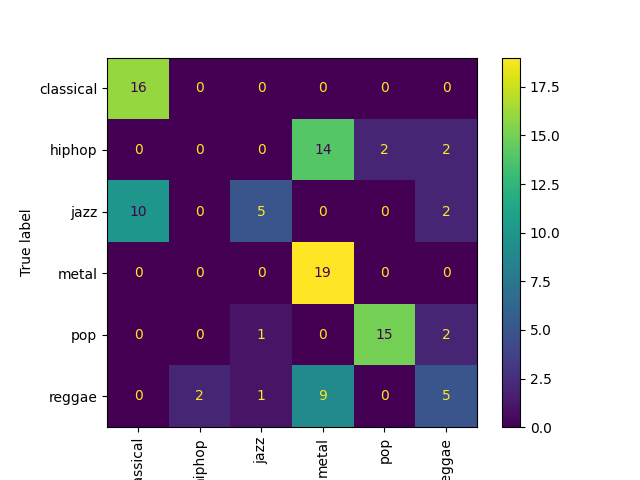
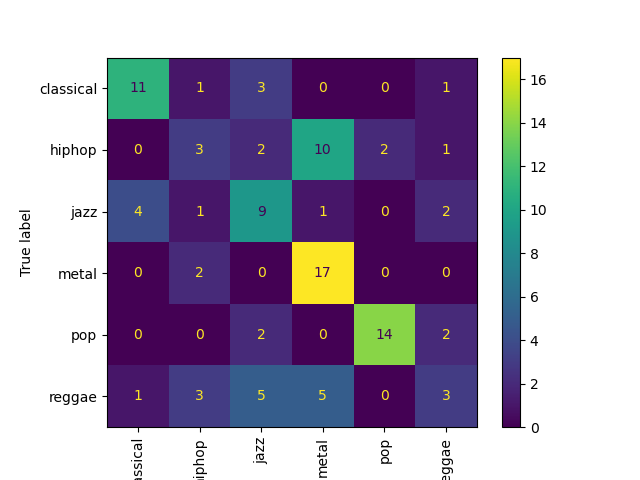
plots rnn confusion matrix

diff --git a/LSTM-Music-Genre-Classification-master/LSTM-Music-Genre-Classification-master/rnn.py b/LSTM-Music-Genre-Classification-master/LSTM-Music-Genre-Classification-master/rnn.py
@@ -275,11 +275,11 @@ def main():
 
         model.eval()
 
-        h_0, c_0 = model.init_hidden(batch_size)                
+        h_0  = model.init_hidden(batch_size)                
         
         for i in range(num_dev_batches):
 
-            h_0, c_0 = h_0.to(device), c_0.to(device)
+            h_0 = h_0.to(device)
 
             X_local_validation_minibatch, y_local_validation_minibatch = (
                 dev_X[i * batch_size: (i + 1) * batch_size, ],
@@ -291,7 +291,7 @@ def main():
 
             X_local_minibatch, y_local_minibatch = X_local_minibatch.to(device), y_local_minibatch.to(device)
 
-            y_pred, h_0, c_0 = model(X_local_minibatch, h_0, c_0)
+            y_pred, h_0 = model(X_local_minibatch, h_0)
                             
             pred = y_pred.data.max(1, keepdim=True)[1].cpu().numpy().tolist()
             prediccions += pred
@@ -314,7 +314,7 @@ def main():
         "reggae",
     ])
     disp.plot(xticks_rotation="vertical")
-    plt.savefig("ConfPlot.png")
+    plt.savefig("ConfPlotRNN.png")
     plt.show()
 
 
